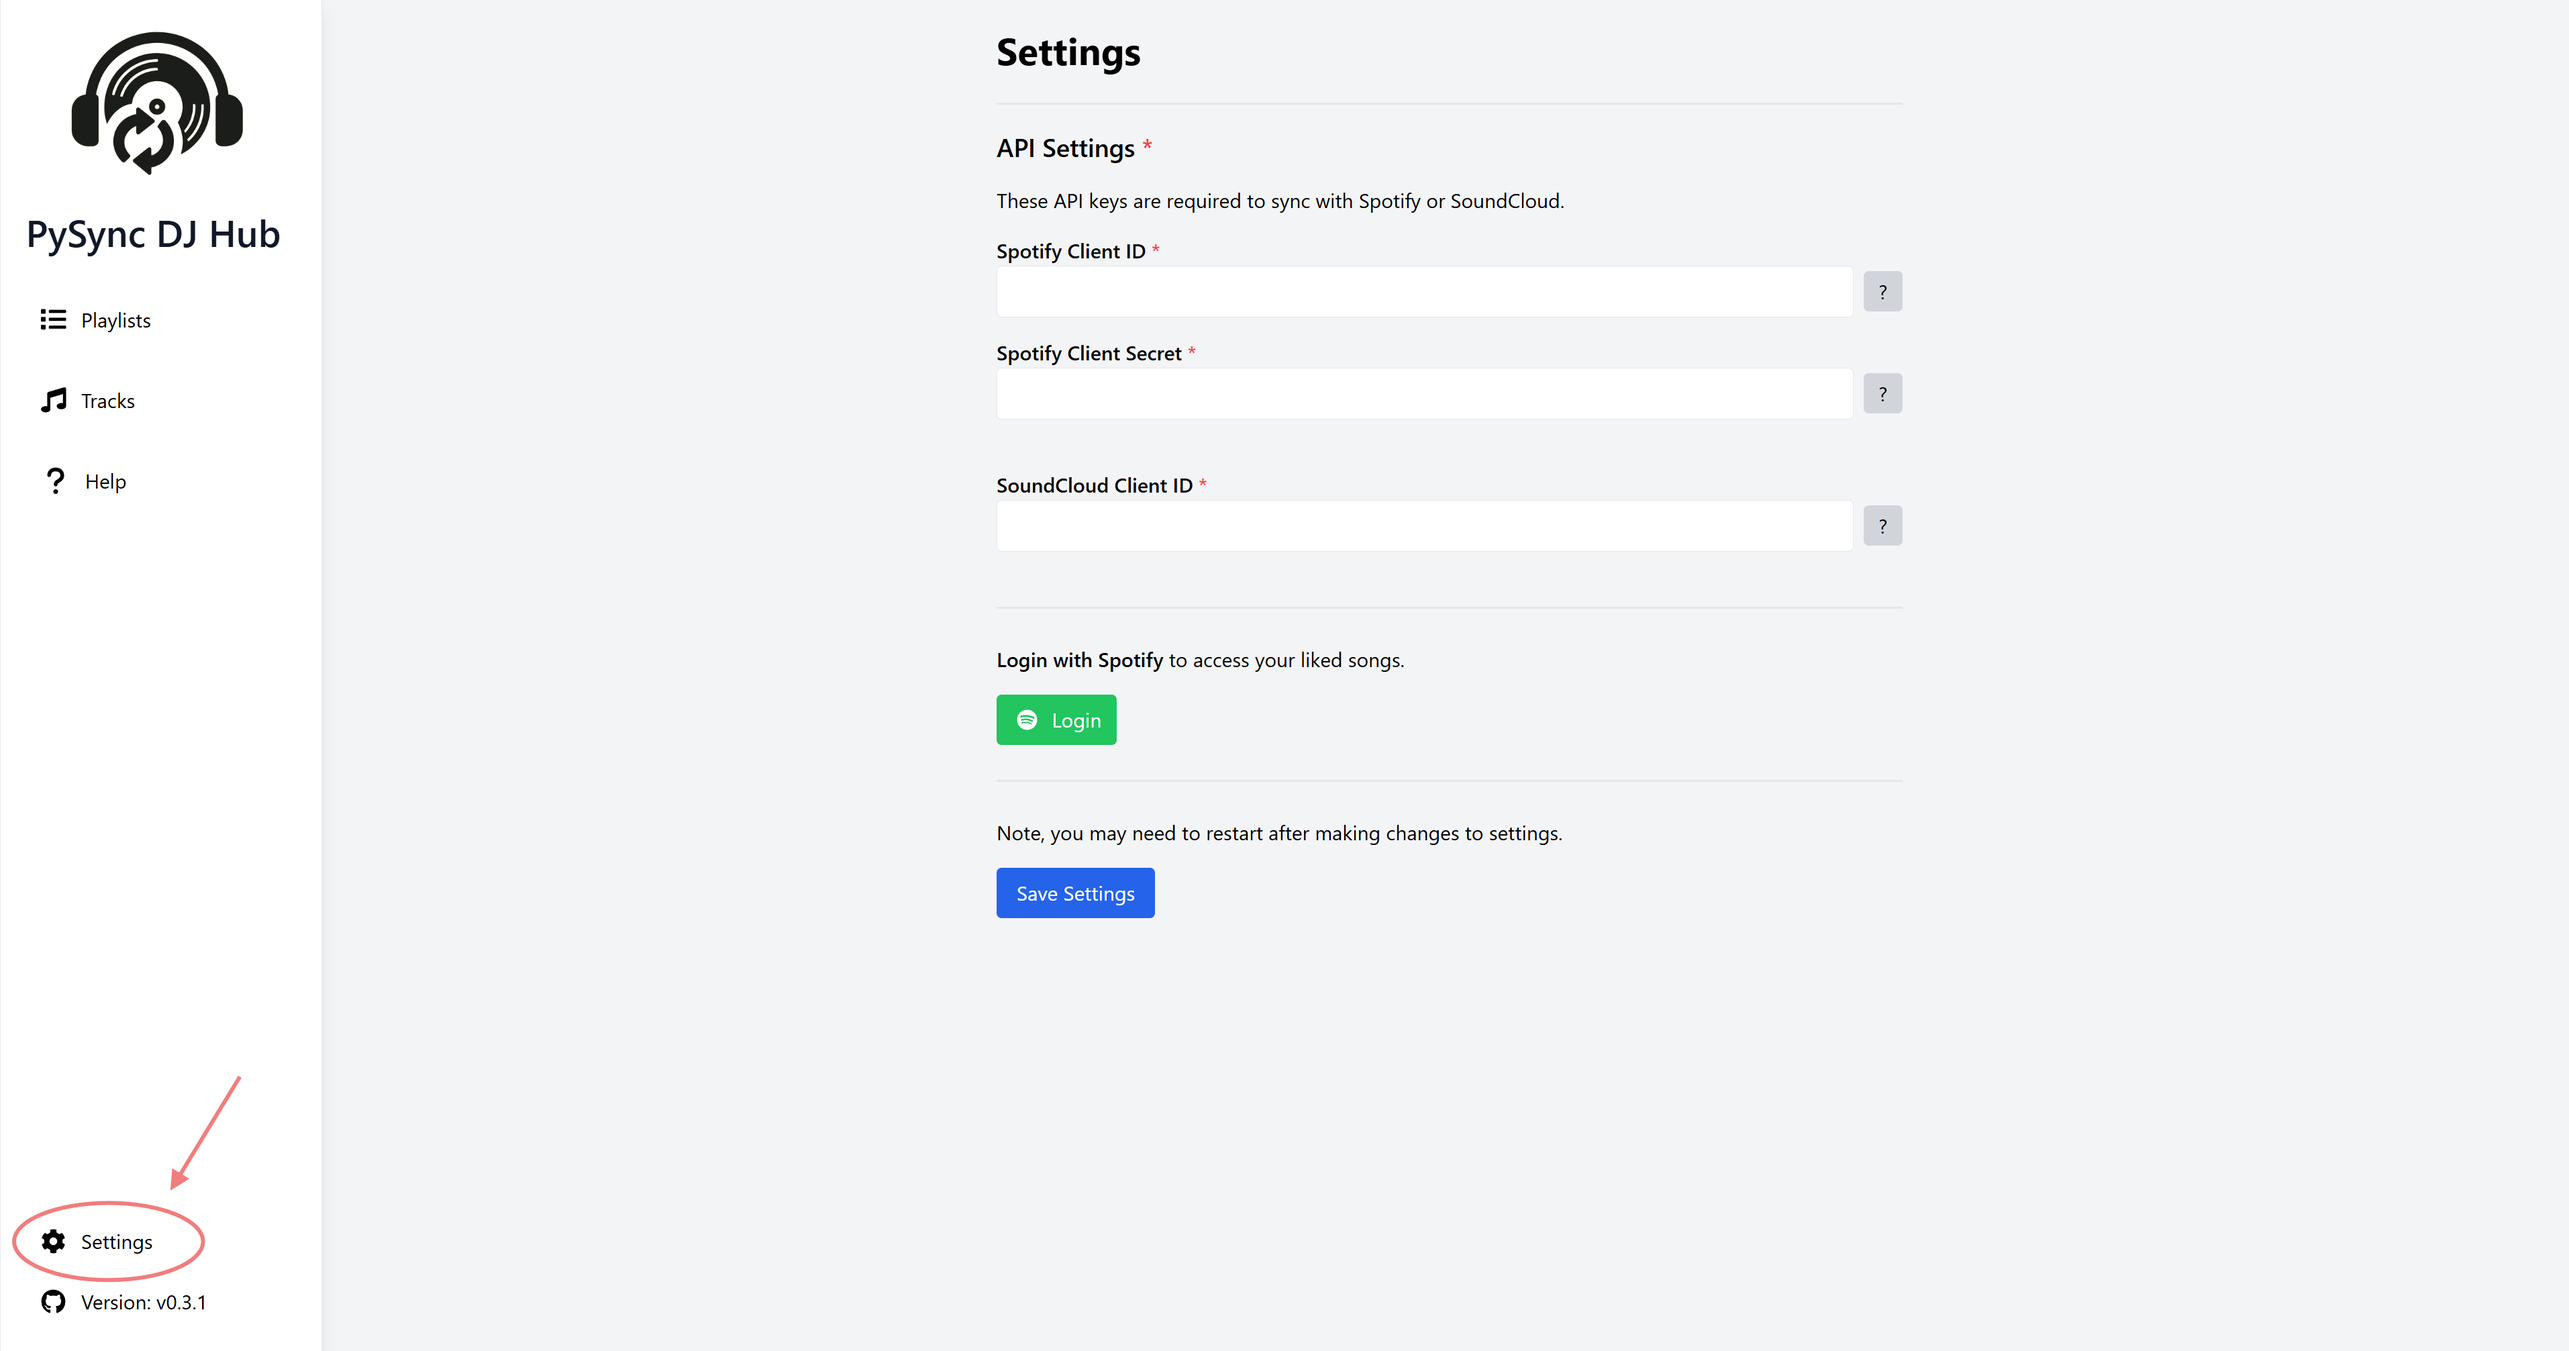
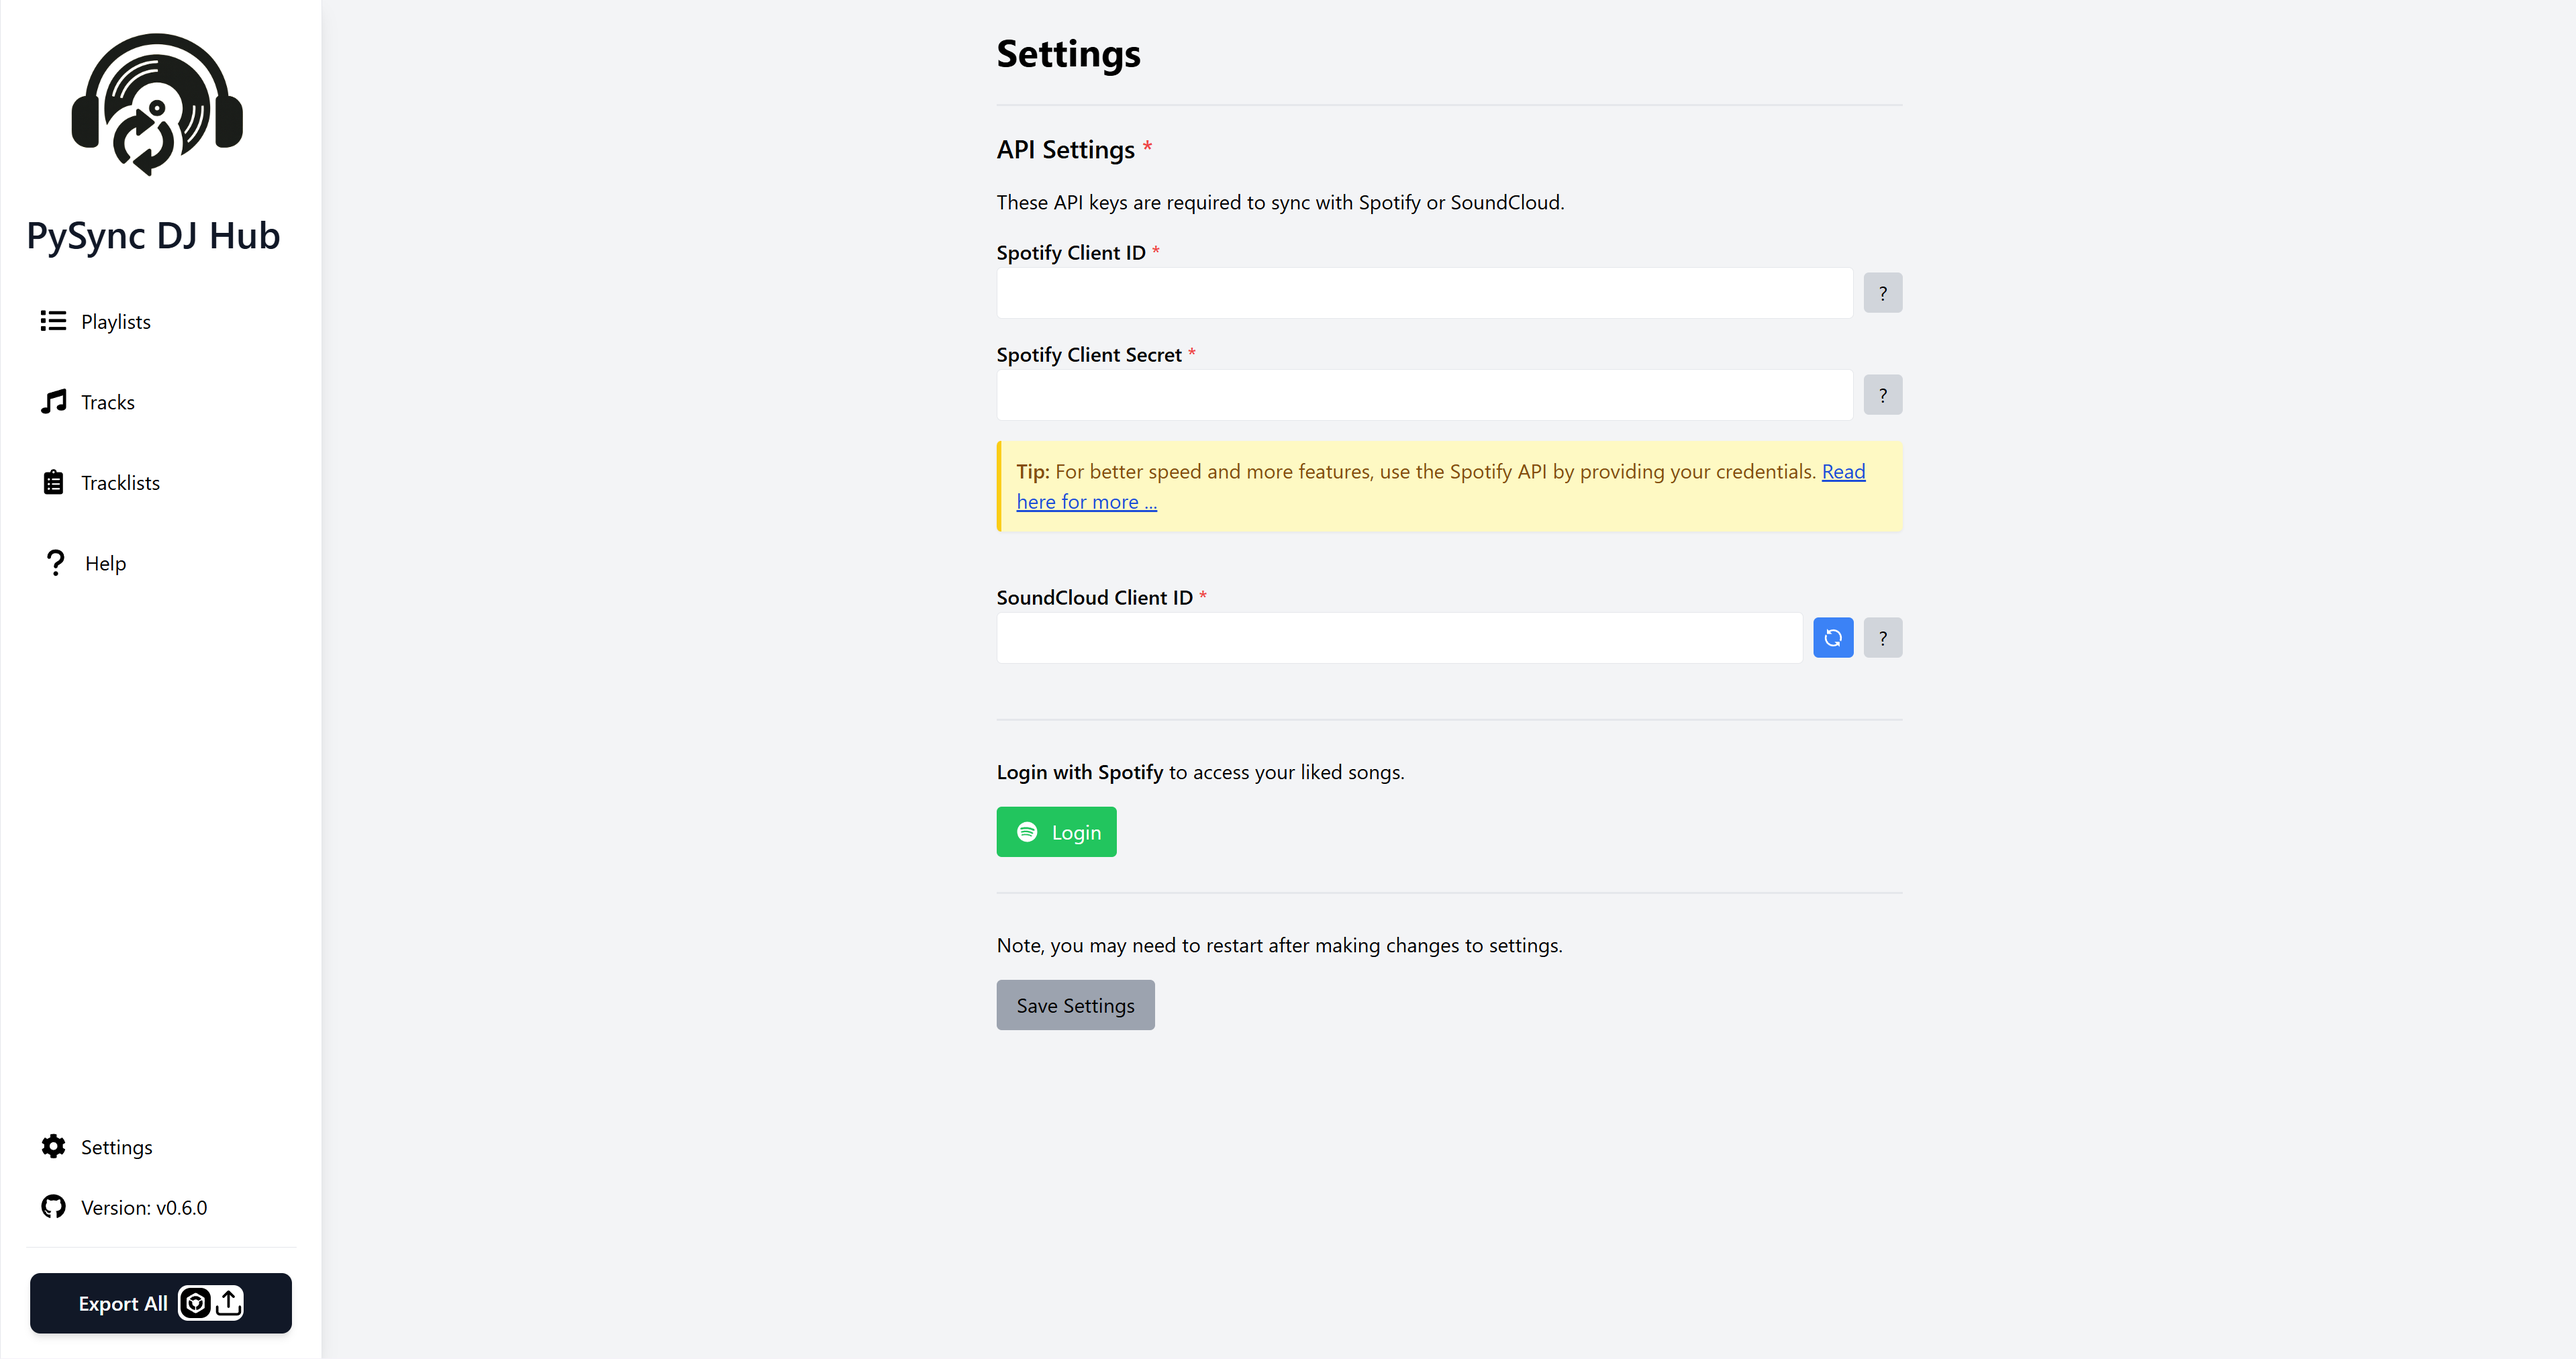
Docs Updates

diff --git a/docs/Help.md b/docs/Help.md
@@ -8,7 +8,7 @@ The program consists of three primary stages: adding playlists, downloading the 
 
 ## 1. Adding Playlists:
 
-If you have the, be sure you have set you API keys in `settings.py` before running the program. Program will work without them but is slower. You can get these keys by following the instructions in the instructions in the [Getting Started](../Readme.md#getting-started) guide.
+If you have them, be sure you have set your API keys in the settings page before running the program. Spotify key is not required for basic syncing, but it is faster with it and needed for liked songs/private playlists. You can get these keys by following the instructions in the instructions in the [Getting Started](../Readme.md#getting-started) guide.
 
 To add a playlist, get the url of the playlist you want to add and paste it into the input box on the home page. The software will then communicate with the platform for the playlist information and keep it in a local database.
 Once added you will see, from left to right, a select box, the playlist image, the name, platform and sync status of the playlist. On the right you will see a downloaded/total track count. Then a Sync Playlist Button. Lastly, a toggle playlist display button. Disabled playlists are not downloaded or added to the exported rekordbox file.
@@ -19,7 +19,7 @@ https://open.spotify.com/playlist/1sbpRux2JYvosuikC01AY
 https://soundcloud.com/tname/sets/chill-liquid-dnb
 https://www.youtube.com/playlist?list=PLMC9KNkIncKtPzgY-5rmhvj7fax8fdxoj
 ```
-Soundcloud users liked songs can be added if using spotify api keys like: 
+Soundcloud users liked songs can be added if using a Soundcloud api key like: 
 ```
 https://soundcloud.com/subfocus/likes                               
 ```
@@ -72,11 +72,11 @@ You can limit how many tracks are downloaded, this is particularly useful for li
 If you are having trouble, try turn off any VPNs as this came get you detected as a robot by the websites.
 
 ### Troubleshooting Adding Playlists - 401 Unauthorized Error
-1. Make sure you have set your API keys in the settings page. Without them the software cannot communicate with the relevant platform. You can get these keys by following the instructions in the instructions in the [Getting Started](../Readme.md#getting-started) guide.
+1. Make sure you have set your API keys in the settings page. Spotify can still sync basic playlists without a key (just slower and no liked songs), but Soundcloud needs a valid key. You can get these keys by following the instructions in the instructions in the [Getting Started](../Readme.md#getting-started) guide.
 2. Disconnect from any VPNs or proxies you may be using. 
 3. If you are downloading a private spotify playlist, make sure you have logged in.
-4. If you are downloading a soundcloud playlist, its possible that the app my need updating. Go to the [GitHub Page](https://github.com/Peter-SB/PySync-Hub)
-
+4. If you are downloading a soundcloud playlist, try refreshing your Soundcloud key from the Settings page first (Soundcloud refresh button). If it still fails, its possible that the app my need updating. Go to the [GitHub Page](https://github.com/Peter-SB/PySync-Hub)
+5.  If you are downloading a soundcloud playlist, its possible that the app my need updating. Go to the [GitHub Page](https://github.com/Peter-SB/PySync-Hub)
 ### Antivirus 
 Anti virus software may cause the app not to start properly.
 

diff --git a/docs/Install.md b/docs/Install.md
@@ -25,14 +25,16 @@ Alternatively PySync Hub can be run with a docker container, [docker instruction
 
 **Anti Virus** You may need to check your antivirus settings if you have an overzealous software like Norton
 
+**VPN** VPNs may interfere so disable if needed.
+
 **Port Issues** The backend runs on port 5000 which may cause problems if you have other apps running on that port.
 
 # How To Get API Keys
 
-To be able to connect with the music platforms with this app, you will need to get api keys for each platform.
-
 ### Spotify
 You can get a Spotify API key by going to the [Spotify Developer Dashboard](https://developer.spotify.com/dashboard/applications) and creating a new app. Once you have created the app, you will be able to get the client id and client secret.
+
+**Note:** Spotify API keys are not required for basic syncing. But they do make Spotify syncing faster, and are needed if you want access to liked songs (and private playlists).
 
 You must set a Redirect URLs if you wish to sync liked songs or a private playlist. Your dashboard should look like this:
 
@@ -43,7 +45,15 @@ You must set a Redirect URLs if you wish to sync liked songs or a private playli
 
 ### Soundcloud
 
-The Soundcloud API key can be simply found:
+If your Soundcloud key expires, you can refresh it from the Settings screen with the Soundcloud refresh button.
+
+<br>
+<div align="center">
+    <img src="images/Soundcloud Button.png" alt="Soundcloud Refresh Button" style="width:60%; height:auto;">
+</div>
+
+
+Manual Finding:
 1. Opening incognito.
 2. Developer Tools and going to the Network Tab (`ctr+shift+i`)
 3. Going to Soundcloud.com
@@ -51,9 +61,11 @@ The Soundcloud API key can be simply found:
 5. Save this in your settings. 
 
 <br>
+
 <div align="center">
     <img src="images/Scoundcloud-API.png" alt="Spotify API" style="width:%95; height:auto;">
 </div>
+<br>
 <br>
 
 ### Settings
